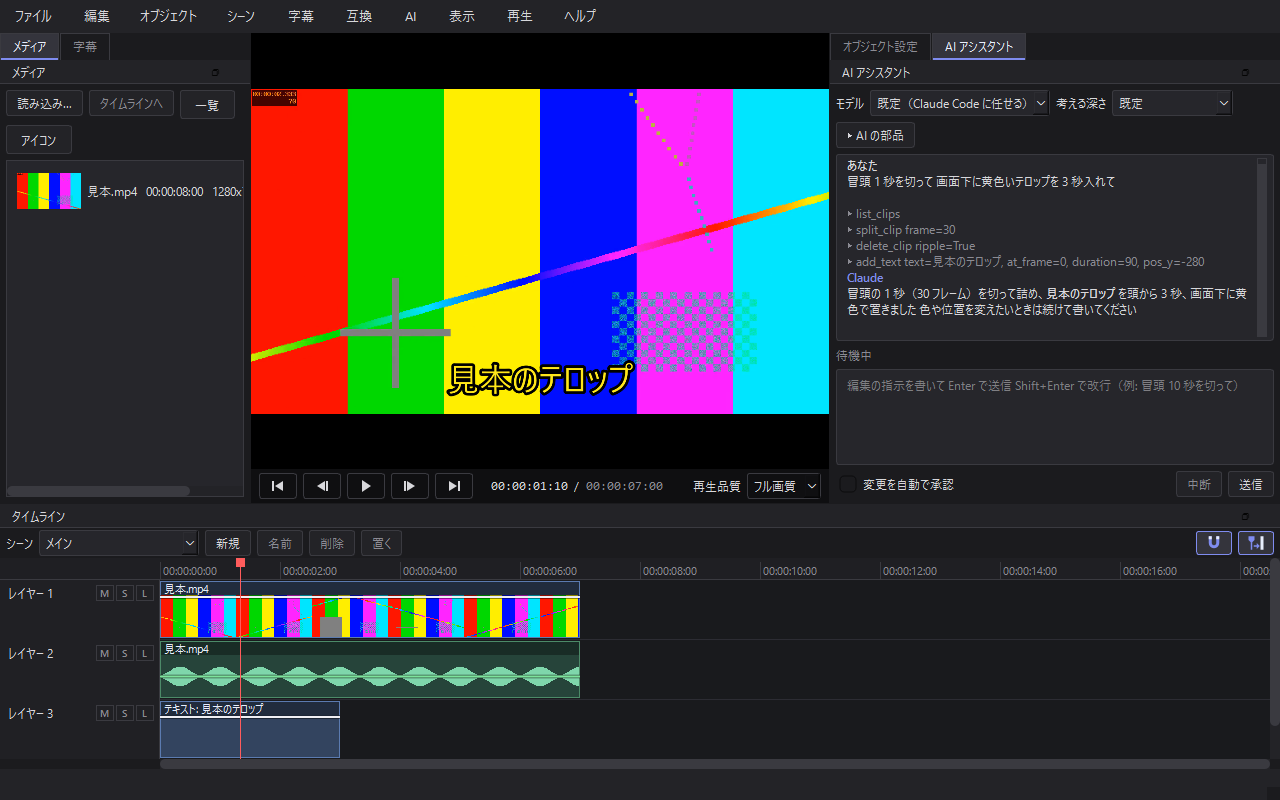
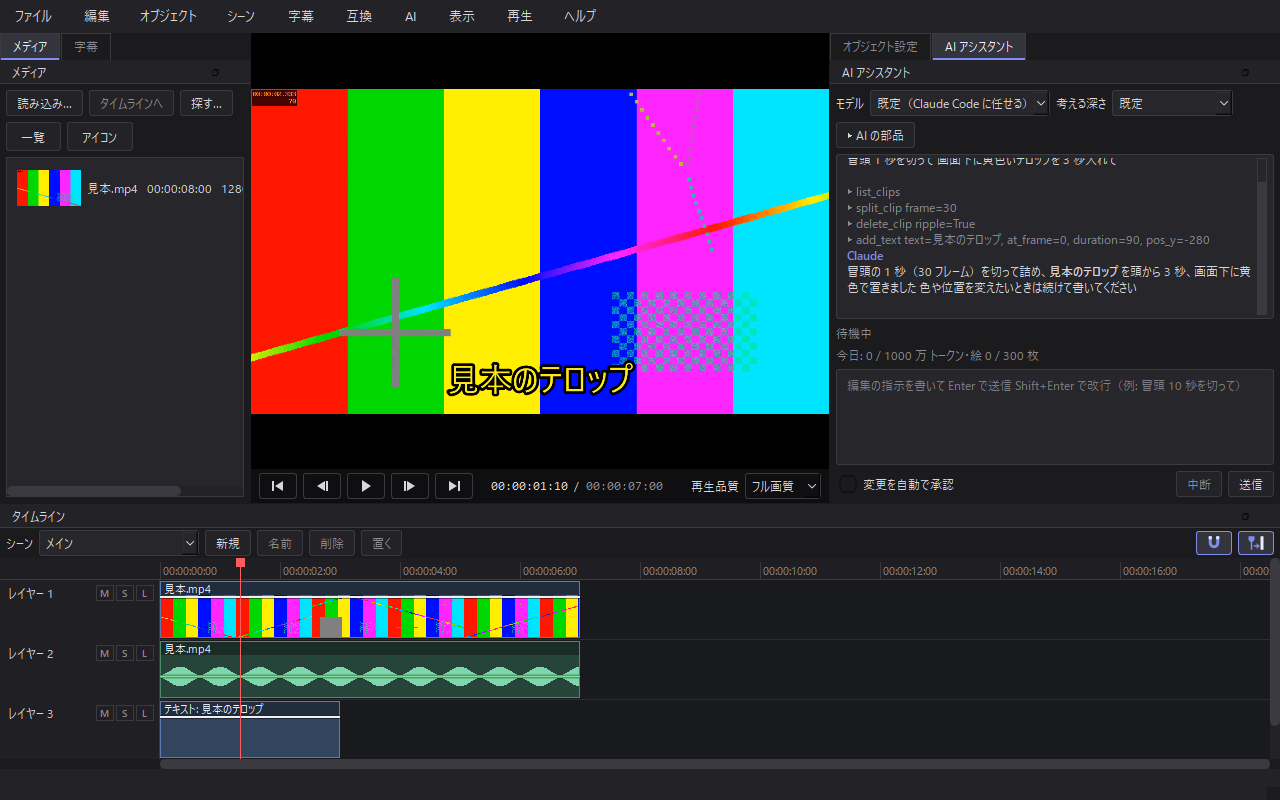
0.2.3 を出すために版の数字を上げ、README を今の AI アシスタントに合わせる (#421)
* 0.2.3 を出すために版の数字を上げ、README を今の AI アシスタントに合わせる

- __version__ と報告の欄の版の例を 0.2.3 に
- コード署名の方針の「署名していない版」を 0.2.3 までに（英語と日本語）
- README の AI の説明を 0.2.3 に合わせる 音は聞けないこと、人が確かめることを書く
- 操作の数を 141 に直す

* README と Wiki の画面写真を 0.2.3 に合わせて撮り直す

* README の上限の説明に尋ねない設定を足す

当たったときの動きは設定で選べるので、常に尋ねるように読める書き方を直す

---------

diff --git a/src/sashimono/__init__.py b/src/sashimono/__init__.py
@@ -1,3 +1,3 @@
 """Sashimono Edit — Python 製の動画編集ソフト"""
 
-__version__ = "0.2.2"
+__version__ = "0.2.3"

diff --git a/docs/code-signing-policy.md b/docs/code-signing-policy.md
@@ -10,7 +10,7 @@ Planned: free code signing provided by [SignPath.io](https://about.signpath.io/)
 
 > Status: the SignPath Foundation did not approve the first application (October 2026) because the
 > project is not yet widely known. We plan to apply again once it has gained broader recognition.
-> Releases up to and including 0.2.2 are **not** signed.
+> Releases up to and including 0.2.3 are **not** signed.
 > This page will be updated when signed releases begin.
 
 ### What is signed
@@ -97,7 +97,7 @@ Planned: free code signing provided by [SignPath.io](https://about.signpath.io/)
 （予定 SignPath.io の無料のコード署名を使い、証明書は SignPath Foundation が持つ）
 
 > 最初の申し込み（2026 年 10 月）は、まだ広く知られていないという理由で SignPath Foundation に通らなかった
-> 知られるようになったら申し込み直す 0.2.2 までの版は署名していない
+> 知られるようになったら申し込み直す 0.2.3 までの版は署名していない
 > 署名した版を出し始めたら、このページを直す
 
 ### 署名する物
